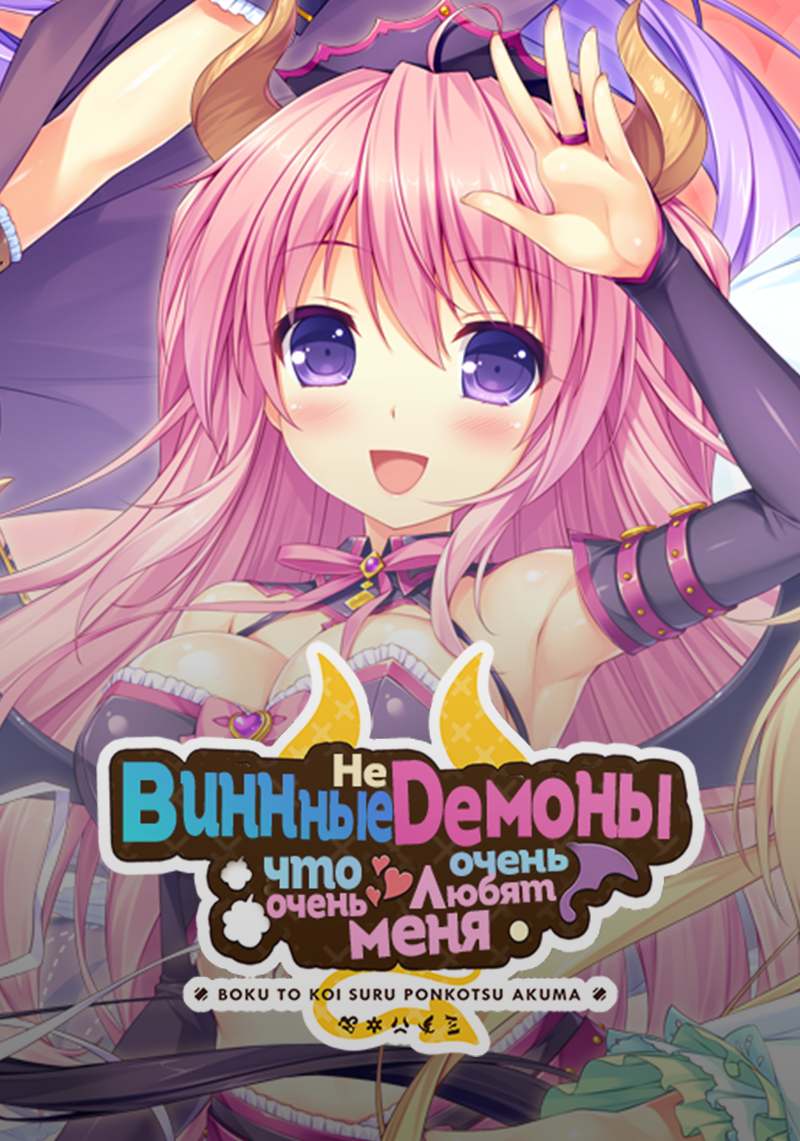
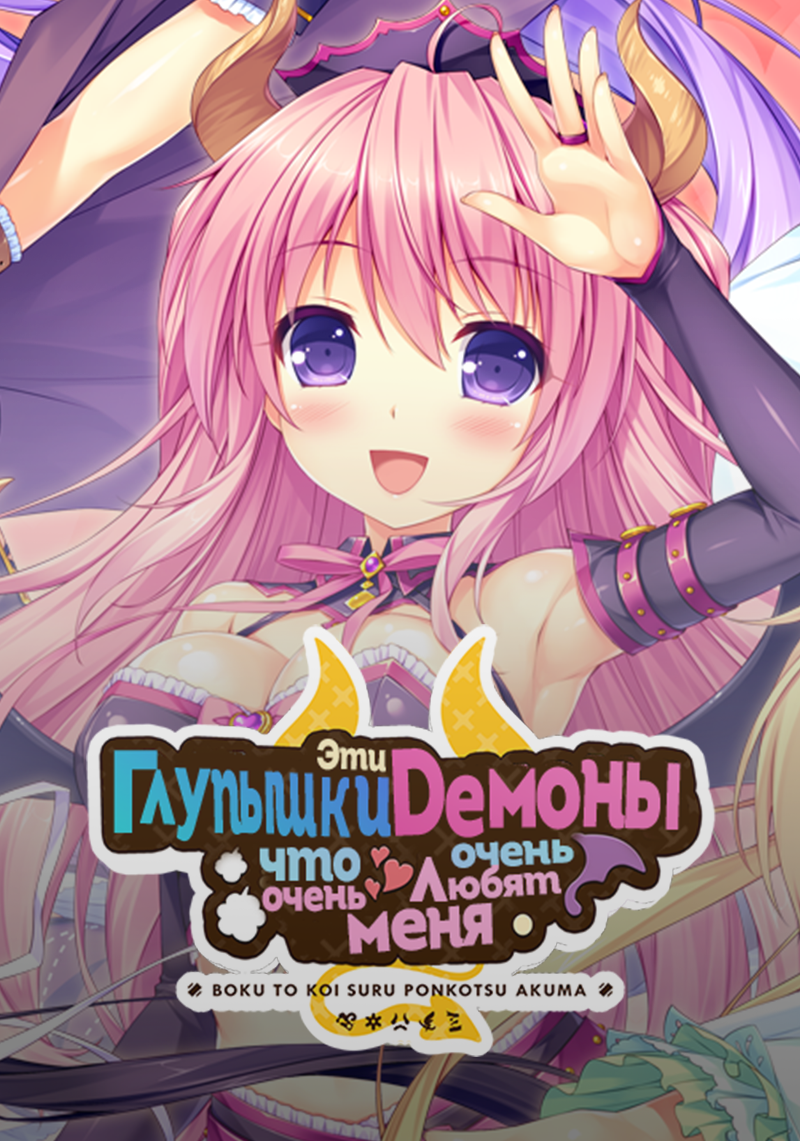
Обновление сайта (Эти Глупышки Демоны)
* Обновлена информация по переводу The Ditzy Demons Are in Love With Me, страница закреплена.
* Убран партнерский закреп с Cost Of Life.

Changed region(s): [[0.0938, 0.5521, 0.9062, 0.9202]]

diff --git a/_layouts/tl.html b/_layouts/tl.html
@@ -6,7 +6,6 @@ layout: default
 {% assign default = site.posts | where_exp: "item", "item.pin != true and item.hidden != true" %}
 {% assign posts = site.posts | where_exp: "item", "item.boxart != null  and item.future == null"%}
 {% assign future = site.posts | where_exp: "item", "item.boxart != null and item.future != false and item.future != null" %}
-
 <!-- Get pinned posts -->
 
 {% assign offset = paginator.page | minus: 1 | times: paginator.per_page %}
@@ -123,6 +122,7 @@ layout: default
     {% include boxartBlock.html posts=future %}
     </div> <!-- #post-list -->
     {% else %}
+    
     <div>
       <p class="text" style="color: gray;">Странно! Не найдено никаких проектов.</p>
     </div>

diff --git a/_includes/smallGallery.html b/_includes/smallGallery.html
@@ -140,7 +140,7 @@ items.forEach(item => {
             {% if image.path contains slug %}
               <li class="item">
                 <a href="{{ image.path }}" class="popup img-link preview-img lazyload s-image">
-                    <img src="{{ image.path }}" class="popup lazyload s-image" alt="Solicen - {{slug}} image">
+                    <img src="{{ image.path }}" class="popup lazyload s-image" alt="Изображение с сайта Solicen - {{slug}} image">
                   </a>
               </li>
             {% endif %}

diff --git a/_posts/2024-04-09-ditzy-demons.md b/_posts/2024-04-09-ditzy-demons.md
@@ -1,7 +1,9 @@
 ---
-title: "Перевод 18+ в разработке - The Ditzy Demons Are in Love With Me"
+title: "The Ditzy Demons Are in Love With Me Русификатор (текст)"
 categories: [перевод, kirikiri]
-tags: [kirikiri, the ditzy demons, эроге, визуальная новелла, эротический роман]
+tags: [kirikiri, the ditzy demons, эроге, визуальная новелла, эротический роман, visualnovel]
+text: "Перевод эроге визуальной новеллы под названием “The Ditzy Demons Are in Love With Me”, за основу перевода берется английская Steam версия игры, включая 18+ патч. Эти Глупышки..."
+pin: true
 
 #Ссылка & Редиректы
 permalink: "/thediztydemons"
@@ -12,25 +14,32 @@ short: "The Ditzy Demons Are in Love With Me"
 sub-cat: [визуальная новелла]
 
 gallery: 'ditzydemons'
-image: '\assets\img\gallery\ditzydemons\logo.png'
+image: '/assets/img/gallery/ditzydemons/0_title.png'
 
 sideInfo:
   dev:
      style: 0
      header: "Переводчики"
-     title: "Denis Solicen"
+     title: "Denis Solicen, katolik163"
 
 # Скрыть пост из общего доступа
-hidden: true
 future: true
 ---
 # The Ditzy Demons Are in Love With Me
 ## Информация о переводе
-Перевод эроге визуальной новеллы под названием **"The Ditzy Demons Are in Love With Me"** или в моем исключительном переводе для логотипа - **"Невинные Демоны Что Очень Очень Любят Меня"** или на самом деле, что более правильно **"Взбалмошные Демоны Что Влюблены В Меня"**.
+Перевод эроге визуальной новеллы под названием **"The Ditzy Demons Are in Love With Me"** или в моем (Солицена) переводе для логотипа - **"Эти Глупышки Демоны Что Очень Очень Любят Меня"**, хотя более правильно **"Взбалмошные Демоны Что Влюблены В Меня"**.
 
-Данный перевод находится в разработке, и потому не имеет ссылок на скачивание.
+За основу перевода берется английская Steam версия игры, включая 18+ патч.
+- Финальная версия перевода будет иметь выбор между All-Ages и Adult версией.
 
+Перевод находится в разработке, и потому не имеет ссылок на скачивание.
+Начиная с **18.07.2024** перевод был продолжен, благодаря ув. человеку под ником **katolik163**.
 
-## Текущий статус проекта
-* Перерисовка логотипа - Denis Solicen
-* Перерисовка главного меню - Denis Solicen
+Скриншоты на странице перевода, отображают наше виденье текста, локализации, и перевода в целом, перевод не будет дословным, а попытается сохранять смысл другимми словами. 
+
+## Команда перевода
+* Перерисовка логотипа - **Denis Solicen**
+* Перерисовка главного меню - **Denis Solicen**
+* Перевод текста - **Denis Solicen**, **katolik163**
+* Техническая помощь -  **katolik163**
+* Разбор ресурсов -  **katolik163**

diff --git a/_posts/games/2023-09-03-cost-of-life.md b/_posts/games/2023-09-03-cost-of-life.md
@@ -4,7 +4,6 @@ title: "Цена Жизни: Пролог (Cost of Life)"
 categories: [Игры, Visual Novel]
 tags: [visualnovel, визуальная новелла, ужасы, психология, селфхарм, ren'py, драма, психологическое, сверхъестественное]
 text: "Оригинальная новелла от SAn4Es_TV, она рассказывает историю об девочке, которую возненавидело общество. Игра представляет собой небольшую визуальную новеллу..."
-pin: true 
 
 #Ссылка & Редиректы
 permalink: "games/cost-of-life"
